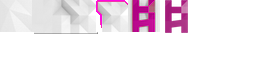
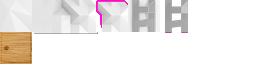
clean up

Changed region(s): [[0.5, 0.0, 0.75, 0.5], [0.0, 0.5, 0.125, 1.0]]

diff --git a/scripts/entities/Player.js b/scripts/entities/Player.js
@@ -52,11 +52,6 @@
 
 		},
 
-		pickhit: function (p) {
-
-			p.picked();
-		},
-
 		reset: function () {
 
 			this.jumpspeed = 0;
@@ -65,9 +60,9 @@
 			this.jumpdebounce = -1;
 			this.falling = true;
 			this.wasFalling = true;
-
-			this.weapons = [new VisionBrush(this), new LaserBrush(this)];
-			this.weaponIdx = 1;
+//new VisionBrush(this)
+			this.weapons = [null, null];
+			this.weaponIdx = 0;
 			this.weapon = this.weapons[this.weaponIdx];
 
 		},
@@ -114,8 +109,10 @@
 			}
 
 			if (Ω.input.pressed("fire")) {
-				this.particle.play(this.x + (this.w / 2), this.y + 10, this.angle);
-				this.weapon && this.weapon.fire(this.angle);
+				if (this.weapon) {
+					this.particle.play(this.x + (this.w / 2), this.y + 10, this.angle);
+					this.weapon.fire(this.angle);
+				}
 			}
 
 			if (!(Ω.input.isDown("fire")) && Ω.input.wasDown("fire")) {
@@ -194,6 +191,16 @@
 		hitBlocks: function (blocks) {},
 
 		hit: function (by) {},
+
+		pickhit: function (p) {
+
+			p.picked();
+
+			if (p instanceof LaserBrushPickup) {
+				this.weapons[1] = new LaserBrush(this);
+				this.setWeapon(1);
+			}
+		},
 
 		playNote: function () {
 

diff --git a/lib/Ω/maps/Map.js b/lib/Ω/maps/Map.js
@@ -23,11 +23,10 @@
 				return;
 			}
 
-			//gfx.ctx.save();
-			//gfx.ctx.globalAlpha = 0.1;
-
 			var tw = this.sheet.w,
 				th = this.sheet.h,
+				cellW = this.sheet.cellW,
+				cellH = this.sheet.cellH,
 				stx = camera.x / tw | 0,
 				sty = camera.y / th | 0,
 				endx = stx + (camera.w / camera.zoom / tw | 0) + 1,
@@ -49,11 +48,15 @@
 					if (cell === 0) {
 						continue;
 					}
-					this.sheet.render(gfx, cell - 1, 0, i * tw, j * th);
+
+					this.sheet.render(
+						gfx,
+						(cell - 1) % cellW  | 0,
+						(cell - 1) / cellW | 0,
+						i * tw,
+						j * th);
 				}
 			}
-
-			//gfx.ctx.restore();
 
 		},
 

diff --git a/lib/Ω/SpriteSheet.js b/lib/Ω/SpriteSheet.js
@@ -10,8 +10,14 @@
 			this.w = width;
 			this.h = height || width;
 
+			var self = this;
+
 			this.sheet = Ω.gfx.loadImage(path,(function (){
-				return Ω.preload();
+				return function () {
+					self.cellW = self.sheet.width / self.w | 0;
+					self.cellH = self.sheet.height / self.h | 0;
+					Ω.preload();
+				}
 			}()));
 
 		},

diff --git a/scripts/screens/MainScreen.js b/scripts/screens/MainScreen.js
@@ -65,7 +65,7 @@
 			this.player.tick(this.map);
 
 			if (Math.random () < 0.01) {
-				this.addBullet(15 * 32, 3 * 32, Math.random() * (Math.PI * 2));
+				//this.addBullet(15 * 32, 3 * 32, Math.random() * (Math.PI * 2));
 			}
 
 			this.pickups = this.pickups.filter(function (p) {

diff --git a/scripts/Game.js b/scripts/Game.js
@@ -6,9 +6,9 @@
 
 		canvas: "#board",
 
-		init: function (w, h) {
+		init: function (w, h, col) {
 
-			this._super(w, h);
+			this._super(w, h, col);
 
 			Ω._progress = function (cur, max) {
 				// use for progress bar

diff --git a/scripts/pickups/LaserBrushPickup.js b/scripts/pickups/LaserBrushPickup.js
@@ -7,7 +7,7 @@
 
 		render: function (gfx) {
 
-			this.sheet.render(gfx, 0, 0, this.x, this.y);
+			this.sheet.render(gfx, 0, 0, this.x, this.y + (Math.sin(Date.now() / 300) * 3));
 
 		}
 

diff --git a/css/main.css b/css/main.css
@@ -17,12 +17,6 @@ section {
 	margin: 0 auto;
 }
 
-/*section canvas {
-	position: absolute;
-	top: 0;
-	left: 0;
-}*/
-
 html, body, #container {
     margin: 0;
     padding: 0;

diff --git a/index.html b/index.html
@@ -73,7 +73,7 @@
 
 		<script type="text/javascript" charset="utf-8">
 
-			var game = new Game(640, 480);
+			var game = new Game(640, 480, "#fff");
 
 		</script>
 	</body>

diff --git a/lib/Ω/screens/Screen.js b/lib/Ω/screens/Screen.js
@@ -12,7 +12,7 @@
 
 			var c = gfx.ctx;
 
-			c.fillStyle = "hsl(0, 0%, 0%)";
+			c.fillStyle = "hsl(0, 100%, 100%)";
 			c.fillRect(0, 0, gfx.w, gfx.h);
 
 		}

diff --git a/scripts/weapons/LaserBrush.js b/scripts/weapons/LaserBrush.js
@@ -6,6 +6,8 @@
 
 		shooting: false,
 
+		time: 500,
+
 		fire: function (angle) {
 
 			this.shooting = true;
